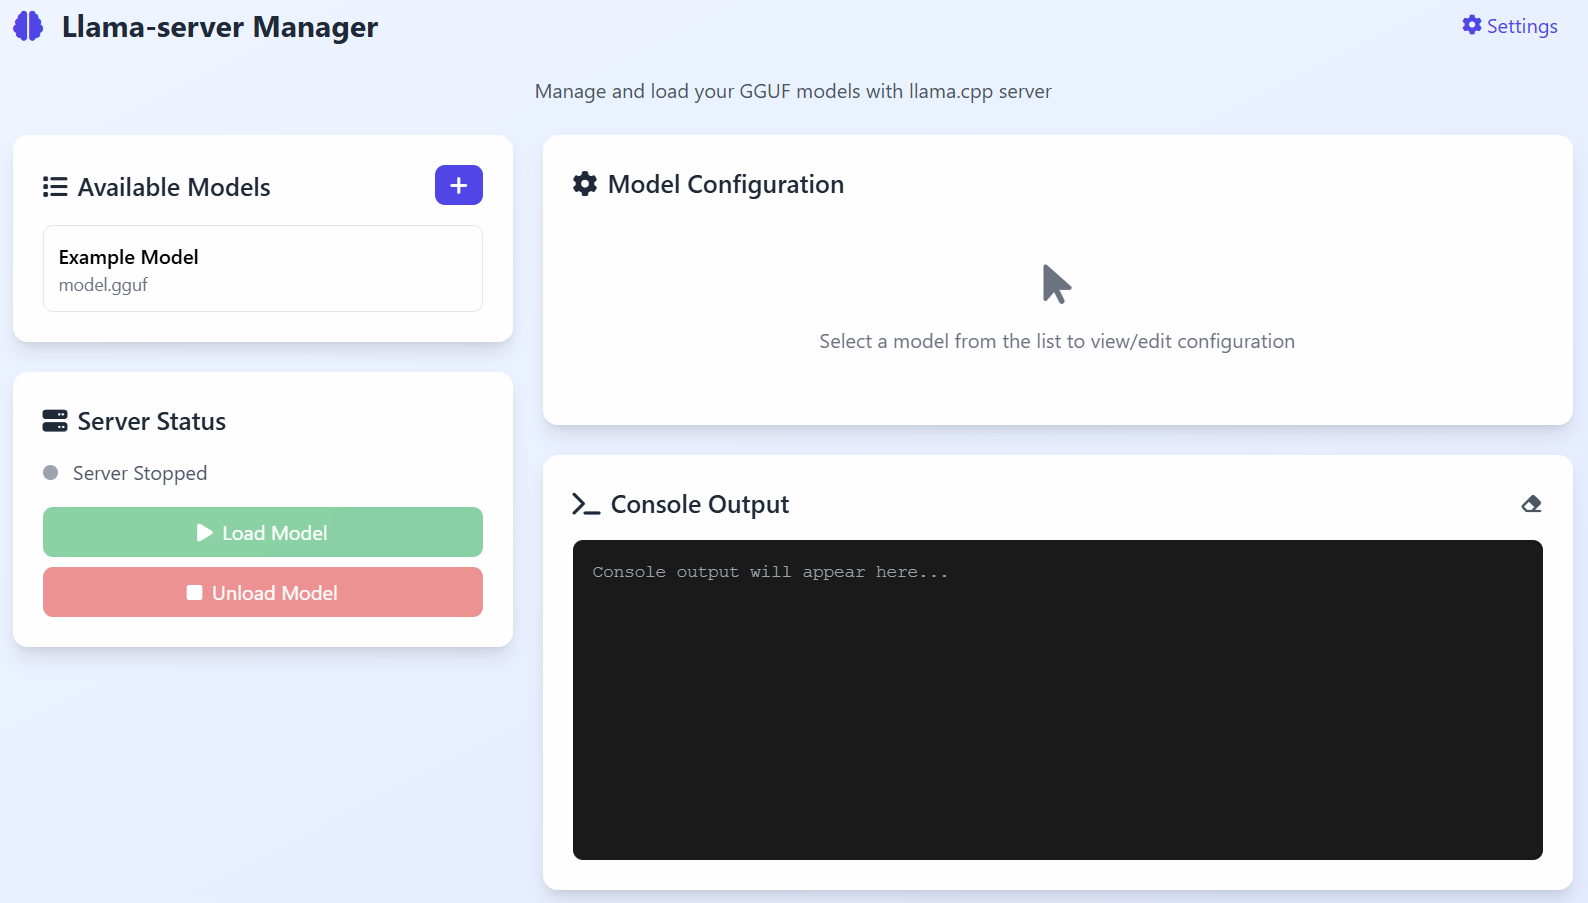
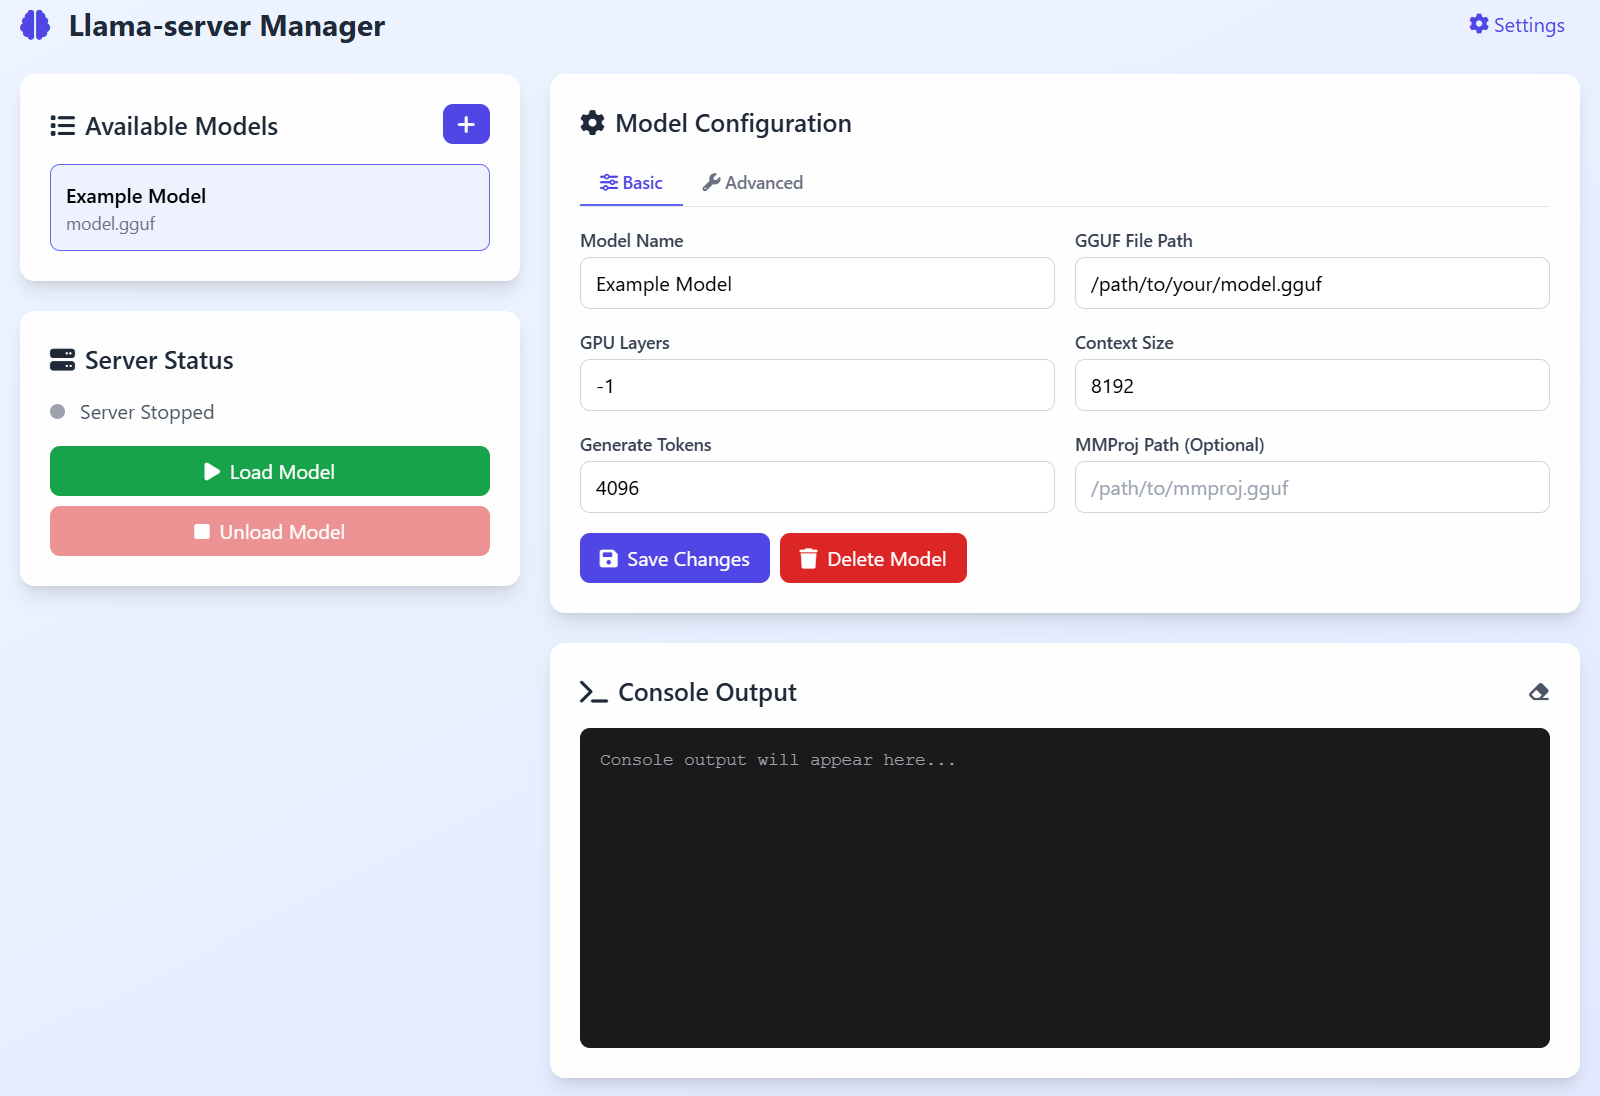
updated README.md, minor UI tweak

diff --git a/templates/index.html b/templates/index.html
@@ -45,9 +45,9 @@
         </nav>
 
         <!-- Header -->
-        <header class="text-center mb-6">
+        <!--<header class="text-center mb-6">
             <p class="text-gray-600">Manage and load your GGUF models with llama.cpp server</p>
-        </header>
+        </header>-->
 
         <!-- Main Grid -->
         <div class="grid grid-cols-1 lg:grid-cols-3 gap-6">

diff --git a/README.md b/README.md
@@ -10,6 +10,9 @@
 - **GPU Configuration** — Customize GPU offloading layers, context size, generation tokens and custom flags per model
 - **Server Control** — Load and unload models with a single click, with live status indicator
 - **Persistent Config** — Model configurations are saved to `config.json`
+- **Copy config** — Hover over model profile in UI and select the `copy` icon
+- **Advanced settings** — Configure custom flags and llama-server paths per model in `Advanced settings` and globally in `Settings`
+
 
 ## Prerequisites
 
@@ -28,13 +31,6 @@ pip install flask flask-socketio
 
 ```
 <user_home_path>/llama.cpp/build/bin/llama-server
-```
-
-Update these variables in `app.py` to match your system.
-```
-LLAMA_SERVER_HOST
-LLAMA_SERVER_PORT
-LLAMA_SERVER_PATH
 ```
 
 ## Running
@@ -74,13 +70,28 @@ Models are stored in `config.json` with the following structure:
 {
   "models": [
     {
-      "model_name": "My Model",
-      "path_to_gguf_file": "/path/to/model.gguf",
+      "model_name": "Example Model",
+      "path_to_gguf_file": "/path/to/your/model.gguf",
       "n_gpu_layers": -1,
       "n_ctx": 8192,
-      "n_generate_tokens": 4096
+      "n_generate_tokens": 4096,
+      "mmproj_path": "",
+      "custom_flags": "",
+      "llama_server_path": ""
     }
-  ]
+  ],
+  "settings": {
+    "llama_server_path": "<user_home_path>/llama.cpp/build/bin/llama-server",
+    "llama_server_host": "0.0.0.0",
+    "llama_server_port": 5001,
+    "defaults": {
+      "n_gpu_layers": -1,
+      "n_ctx": 8192,
+      "n_generate_tokens": 4096,
+      "mmproj_path": "",
+      "custom_flags": ""
+    }
+  }
 }
 ```
 